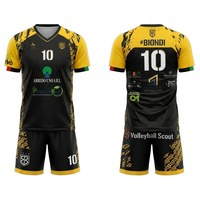
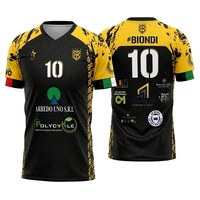
feat: aggiorna foto divisa gara con nuovi sponsor

diff --git a/service-worker.js b/service-worker.js
@@ -1,4 +1,4 @@
-const CACHE_NAME = 'spx-app-v10';
+const CACHE_NAME = 'spx-app-v11';
 
 const APP_SHELL = [
   './',

diff --git a/scripts/homogenize_photos.py b/scripts/homogenize_photos.py
@@ -32,7 +32,7 @@ SOURCES = {
     'berretto-visiera-piatta': ('catalog', 'p13_img1_1332x1060.png'),
     'cuscino-gradinate': ('catalog', 'p13_img3_724x543.png'),
     'scaldacollo-pile': ('catalog', 'p14_img2_724x543.png'),
-    'divisa-gara': ('input', 'divisa.jpeg'),
+    'divisa-gara': ('input', 'Divisa.jpg'),
     'pantaloncini-allenamento': ('input', 'Pantaloncini corti allenamento..png'),
 }
 
